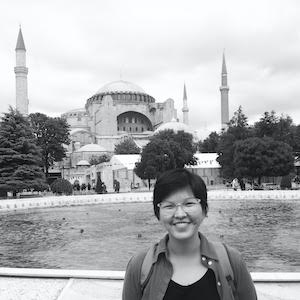
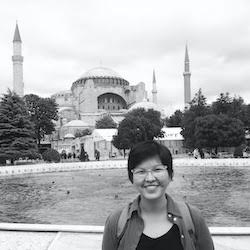
photo

diff --git a/css/style.css b/css/style.css
@@ -30,8 +30,8 @@ div {
 
 }
 img {
-  width: 310px;
-  height: 300px;
+  width: 250px;
+  height: 250px;
   line-height: 3;
   display: block;
   margin-left: auto;
